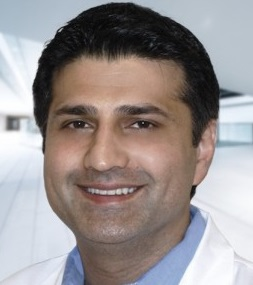
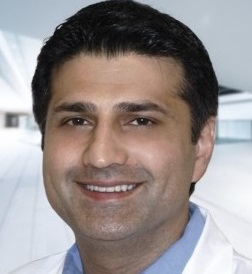
asasas

diff --git a/demo-it-team.html b/demo-it-team.html
@@ -190,7 +190,7 @@
 						<div class="col-lg-2 col-md-3 rounded mx-auto d-block" style="text-align: center; align-items: center;">
 							<div >
 								<div class="team-avatar">
-									<img class="w-100" src="img/ceo2.jpg" alt="" style="border-radius: 10px;" width="100" >
+									<img class="w-100" src="img/ceo2.jpg" alt="" style="border-radius: 10px;" width="100" height="170" >
 								</div>
 								<h6 class="text-primary">Dr. Allauddin</h6>
 								<h5 class="text-success">CEO (USA)</h5>
@@ -461,7 +461,7 @@
 						<div class="col-lg-2 col-md-3  rounded mx-auto d-block" style="text-align: center; align-items: center;">
 							<div class="team">
 								<div class="team-avatar">
-									<img class="w-100" src="img/furqan.jpeg" alt="" style="border-radius: 10px;">
+									<img class="w-100" src="img/furqan.jpeg" alt="" style="border-radius: 10px;" height="170">
 								</div>
 								<h6 class="text-primary">Irfan Qasim</h6>
 								<h5 class="text-success">Associate Architect</h5>
